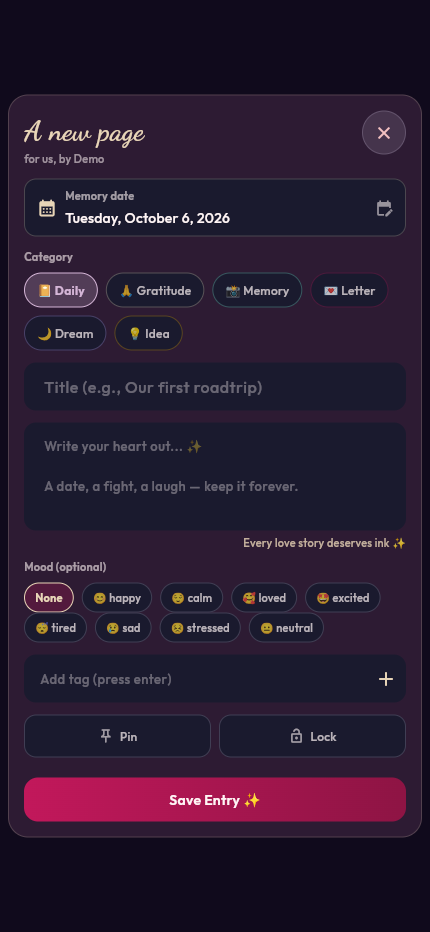
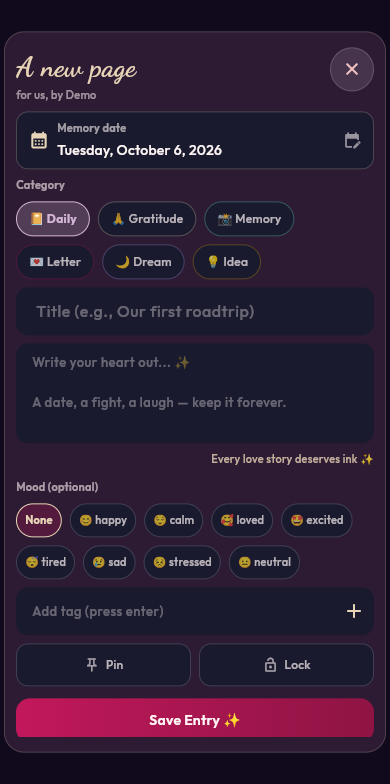
fix(journal): space mood chips on phones

diff --git a/lib/features/journal/presentation/widgets/add_journal_entry_dialog.dart b/lib/features/journal/presentation/widgets/add_journal_entry_dialog.dart
@@ -203,19 +203,26 @@ class _AddJournalEntryDialogState extends State<AddJournalEntryDialog> {
   Widget build(BuildContext context) {
     final size = MediaQuery.sizeOf(context);
     final compact = size.width < 600;
+    final sectionGap = compact ? AppSpacing.sm : AppSpacing.md;
     return Dialog(
       backgroundColor: AppColors.velvet,
       shape: RoundedRectangleBorder(
         borderRadius: BorderRadius.circular(20),
         side: BorderSide(color: AppColors.blushGold.withValues(alpha: 0.2)),
       ),
-      insetPadding: EdgeInsets.all(compact ? AppSpacing.sm : AppSpacing.lg),
+      insetPadding: EdgeInsets.symmetric(
+        horizontal: compact ? AppSpacing.xs : AppSpacing.lg,
+        vertical: compact ? AppSpacing.sm : AppSpacing.lg,
+      ),
       child: Container(
         constraints: BoxConstraints(
           maxWidth: 560,
           maxHeight: (size.height * 0.92).clamp(0.0, 820.0).toDouble(),
         ),
-        padding: EdgeInsets.all(compact ? AppSpacing.lg : AppSpacing.xl),
+        padding: EdgeInsets.symmetric(
+          horizontal: compact ? AppSpacing.md : AppSpacing.xl,
+          vertical: compact ? AppSpacing.lg : AppSpacing.xl,
+        ),
         child: SingleChildScrollView(
           child: Column(
             mainAxisSize: MainAxisSize.min,
@@ -251,7 +258,7 @@ class _AddJournalEntryDialogState extends State<AddJournalEntryDialog> {
                   ),
                 ],
               ),
-              const SizedBox(height: AppSpacing.md),
+              SizedBox(height: sectionGap),
               InkWell(
                 onTap: _saving ? null : _pickMemoryDate,
                 borderRadius: BorderRadius.circular(12),
@@ -310,7 +317,7 @@ class _AddJournalEntryDialogState extends State<AddJournalEntryDialog> {
                   ),
                 ),
               ),
-              const SizedBox(height: AppSpacing.md),
+              SizedBox(height: sectionGap),
               // Category
               Text(
                 'Category',
@@ -356,7 +363,7 @@ class _AddJournalEntryDialogState extends State<AddJournalEntryDialog> {
                   );
                 }).toList(),
               ),
-              const SizedBox(height: AppSpacing.md),
+              SizedBox(height: sectionGap),
               // Title
               TextField(
                 controller: _titleController,
@@ -382,7 +389,7 @@ class _AddJournalEntryDialogState extends State<AddJournalEntryDialog> {
                   ),
                 ),
               ),
-              const SizedBox(height: AppSpacing.md),
+              SizedBox(height: sectionGap),
               // Content
               TextField(
                 controller: _contentController,
@@ -406,10 +413,12 @@ class _AddJournalEntryDialogState extends State<AddJournalEntryDialog> {
                     borderRadius: BorderRadius.circular(12),
                     borderSide: BorderSide.none,
                   ),
-                  contentPadding: const EdgeInsets.all(AppSpacing.lg),
+                  contentPadding: EdgeInsets.all(
+                    compact ? AppSpacing.md : AppSpacing.lg,
+                  ),
                 ),
               ),
-              const SizedBox(height: AppSpacing.xs),
+              const SizedBox(height: AppSpacing.sm),
               // Live word count — a little encouragement as they write.
               ValueListenableBuilder<TextEditingValue>(
                 valueListenable: _contentController,
@@ -429,7 +438,7 @@ class _AddJournalEntryDialogState extends State<AddJournalEntryDialog> {
                   );
                 },
               ),
-              const SizedBox(height: AppSpacing.sm),
+              const SizedBox(height: AppSpacing.md),
               // Mood row (heartbeat link)
               Text(
                 'Mood (optional)',
@@ -441,6 +450,7 @@ class _AddJournalEntryDialogState extends State<AddJournalEntryDialog> {
               const SizedBox(height: AppSpacing.sm),
               Wrap(
                 spacing: AppSpacing.sm,
+                runSpacing: AppSpacing.sm,
                 children: [
                   _buildMoodChip(null, 'None'),
                   ...JournalMood.values.map(
@@ -448,7 +458,7 @@ class _AddJournalEntryDialogState extends State<AddJournalEntryDialog> {
                   ),
                 ],
               ),
-              const SizedBox(height: AppSpacing.md),
+              SizedBox(height: sectionGap),
               // Tags
               Row(
                 children: [
@@ -518,7 +528,7 @@ class _AddJournalEntryDialogState extends State<AddJournalEntryDialog> {
                       .toList(),
                 ),
               ],
-              const SizedBox(height: AppSpacing.md),
+              SizedBox(height: sectionGap),
               // Toggles lock/pin
               Row(
                 children: [
@@ -615,7 +625,7 @@ class _AddJournalEntryDialogState extends State<AddJournalEntryDialog> {
                   ),
                 ],
               ),
-              const SizedBox(height: AppSpacing.xl),
+              SizedBox(height: compact ? AppSpacing.md : AppSpacing.xl),
               if (_saveError != null) ...[
                 Text(
                   _saveError!,
@@ -675,7 +685,10 @@ class _AddJournalEntryDialogState extends State<AddJournalEntryDialog> {
     return GestureDetector(
       onTap: () => setState(() => _mood = mood),
       child: Container(
-        padding: const EdgeInsets.symmetric(horizontal: 10, vertical: 6),
+        padding: const EdgeInsets.symmetric(
+          horizontal: AppSpacing.sm,
+          vertical: AppSpacing.sm,
+        ),
         decoration: BoxDecoration(
           color: isSel
               ? AppColors.deepRose.withValues(alpha: 0.25)
